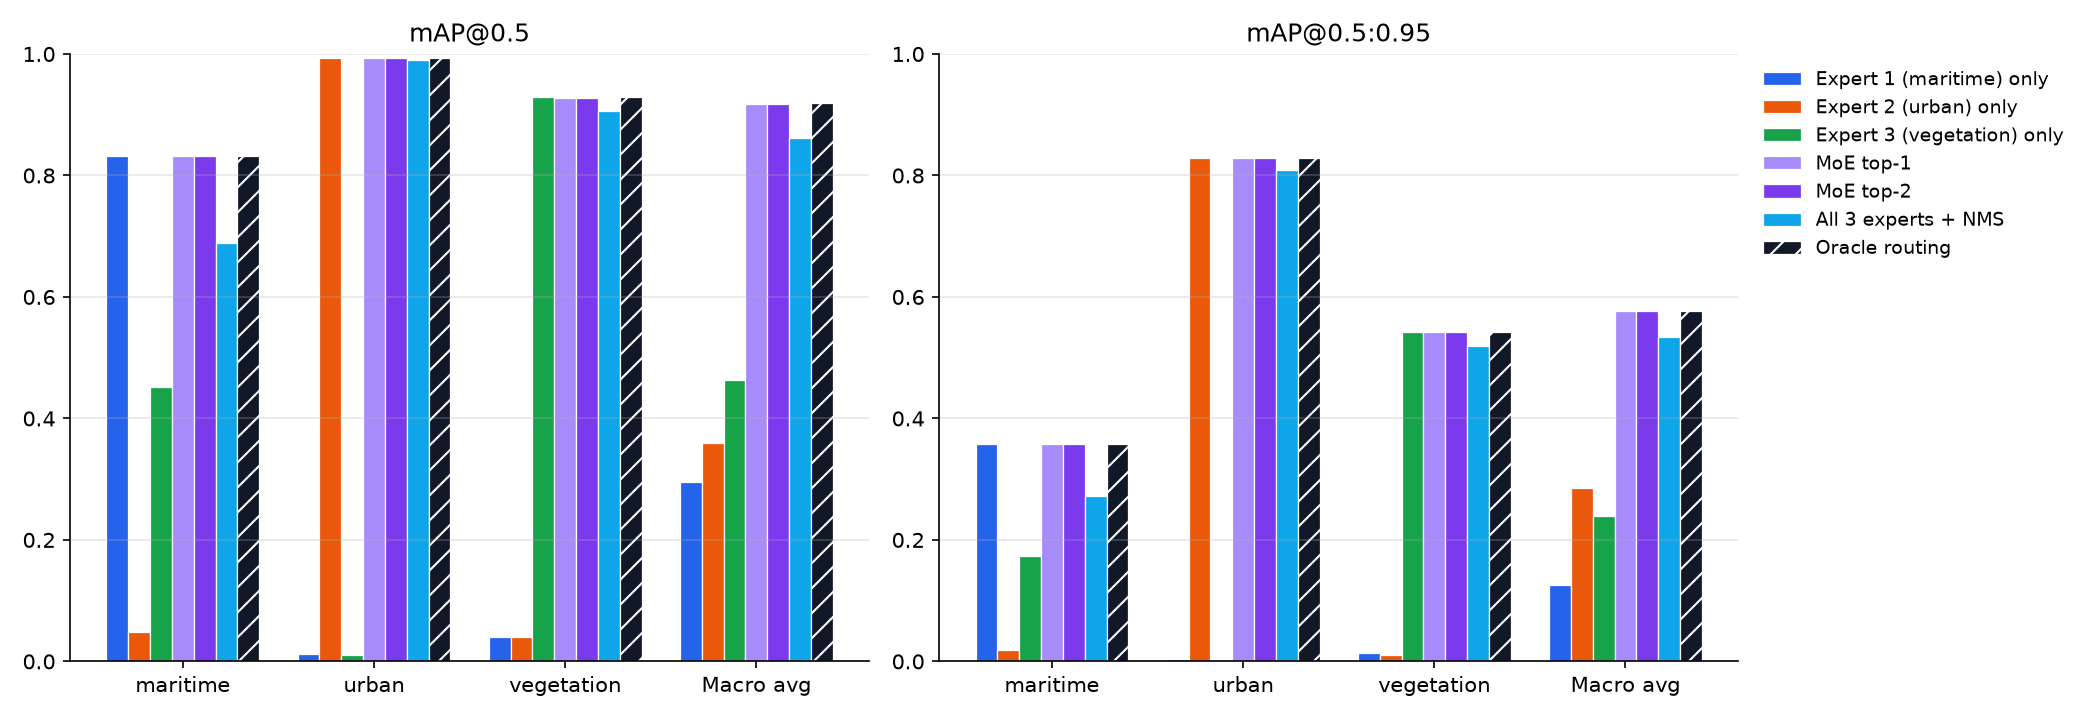
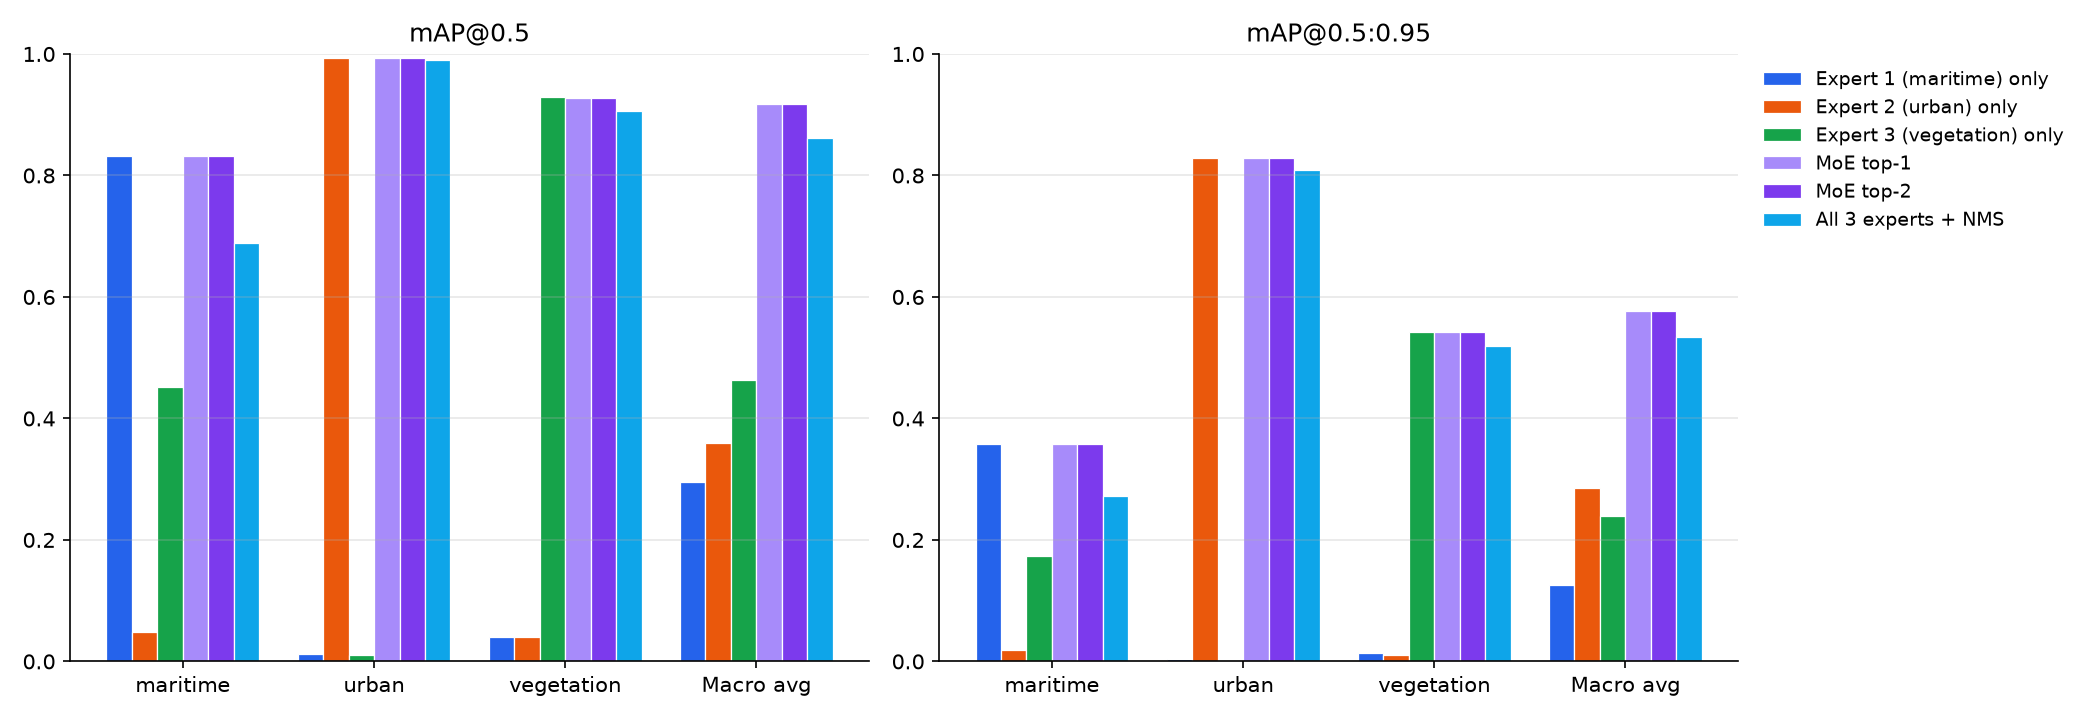
Remove oracle routing from results

diff --git a/runs/moe_eval/report.html b/runs/moe_eval/report.html
@@ -15,7 +15,7 @@ table{border-collapse:collapse;width:100%;font-size:13.5px}
 th,td{padding:7px 10px;border-bottom:1px solid var(--line);text-align:center;white-space:nowrap}
 th.m{text-align:left;font-weight:600} th.grp{background:var(--soft)}
 td.best{font-weight:700;color:var(--acc)} td.pr{color:var(--mut)}
-tr.moe{background:#faf5ff} tr.oracle{color:var(--mut);font-style:italic} tr.muted td,tr.muted th{color:var(--mut);font-size:12.5px}
+tr.moe{background:#faf5ff} table.paper th.m{vertical-align:top} table.paper td.m{text-align:left} .muted{color:var(--mut);font-weight:400;font-size:12.5px} tr.muted td,tr.muted th{color:var(--mut);font-size:12.5px}
 img.chart{max-width:100%;border:1px solid var(--line);border-radius:12px;margin-top:8px}
 .two{display:grid;grid-template-columns:minmax(0,1fr) minmax(0,1fr);gap:16px;align-items:start} .two>*{min-width:0}
 .tabs{display:flex;gap:8px;flex-wrap:wrap;margin:8px 0 14px}
@@ -32,11 +32,15 @@ ul.notes li{margin:4px 0} code{background:var(--soft);padding:1px 5px;border-rad
 </style></head><body><main>
 <h1>Terrain-gated MoE · evaluation report</h1>
 <p class="sub">2026-10-23 15:44 · test set: gate &#x27;test&#x27; split · expert input 640px · gate TTA off · top-2 threshold 0.75 · device mps</p>
-<div class="cards"><div class='card'><div class='k'>MoE top-2 · macro mAP@0.5</div><div class='v'>0.918</div><div class='s'>top-1: 0.918</div></div><div class='card'><div class='k'>Best single model</div><div class='v'>0.464</div><div class='s'>Expert 3 (vegetation) only</div></div><div class='card'><div class='k'>Oracle routing (upper bound)</div><div class='v'>0.919</div><div class='s'>gap to MoE: +0.001</div></div><div class='card'><div class='k'>Gate routing accuracy</div><div class='v'>99.8%</div><div class='s'>top-2 triggered on 0.0% of images</div></div></div>
+<div class="cards"><div class='card'><div class='k'>MoE top-2 · macro mAP@0.5</div><div class='v'>0.918</div><div class='s'>top-1: 0.918</div></div><div class='card'><div class='k'>Best single model</div><div class='v'>0.464</div><div class='s'>Expert 3 (vegetation) only</div></div><div class='card'><div class='k'>All 3 experts + NMS</div><div class='v'>0.862</div><div class='s'>3x the compute of MoE</div></div><div class='card'><div class='k'>Gate routing accuracy</div><div class='v'>99.8%</div><div class='s'>top-2 triggered on 0.0% of images</div></div></div>
 
-<h2>Detection metrics (person class)</h2>
-<p class="sub">Bold purple = best non-oracle value in that column. P / R are at the max-F1 confidence, as in YOLOv5 val.py. Macro avg = mean over the three terrains; All (pooled) = every image together (dominated by the largest test set).</p>
-<div class="scroll"><table class='metrics'><tr><th></th><th colspan='3' class='grp'>maritime</th><th colspan='3' class='grp'>urban</th><th colspan='3' class='grp'>vegetation</th><th colspan='3' class='grp'>Macro avg</th><th colspan='3' class='grp'>All (pooled)</th></tr><tr><th>method</th><th>mAP50</th><th>mAP50-95</th><th>P / R</th><th>mAP50</th><th>mAP50-95</th><th>P / R</th><th>mAP50</th><th>mAP50-95</th><th>P / R</th><th>mAP50</th><th>mAP50-95</th><th>P / R</th><th>mAP50</th><th>mAP50-95</th><th>P / R</th></tr><tr><th class='m'>Expert 1 (maritime) only</th><td>0.832</td><td>0.359</td><td class='pr'>0.869 / 0.827</td><td>0.013</td><td>0.004</td><td class='pr'>0.017 / 0.084</td><td>0.039</td><td>0.013</td><td class='pr'>0.136 / 0.097</td><td>0.295</td><td>0.125</td><td class='pr'>0.340 / 0.336</td><td>0.437</td><td>0.185</td><td class='pr'>0.846 / 0.404</td></tr><tr><th class='m'>Expert 2 (urban) only</th><td>0.048</td><td>0.019</td><td class='pr'>0.197 / 0.041</td><td>0.993</td><td>0.829</td><td class='pr'>0.986 / 0.988</td><td>0.039</td><td>0.011</td><td class='pr'>0.169 / 0.090</td><td>0.360</td><td>0.286</td><td class='pr'>0.451 / 0.373</td><td>0.471</td><td>0.368</td><td class='pr'>0.941 / 0.392</td></tr><tr><th class='m'>Expert 3 (vegetation) only</th><td>0.451</td><td>0.173</td><td class='pr'>0.589 / 0.465</td><td>0.010</td><td>0.002</td><td class='pr'>0.047 / 0.021</td><td class='best'>0.930</td><td class='best'>0.542</td><td class='pr'>0.873 / 0.898</td><td>0.464</td><td>0.239</td><td class='pr'>0.503 / 0.462</td><td>0.356</td><td>0.159</td><td class='pr'>0.611 / 0.350</td></tr><tr class='moe'><th class='m'>MoE top-1</th><td>0.832</td><td>0.359</td><td class='pr'>0.869 / 0.827</td><td>0.993</td><td>0.829</td><td class='pr'>0.986 / 0.988</td><td>0.927</td><td>0.542</td><td class='pr'>0.872 / 0.894</td><td>0.918</td><td>0.576</td><td class='pr'>0.909 / 0.903</td><td>0.922</td><td>0.595</td><td class='pr'>0.917 / 0.892</td></tr><tr class='moe'><th class='m'>MoE top-2</th><td class='best'>0.832</td><td class='best'>0.359</td><td class='pr'>0.869 / 0.827</td><td class='best'>0.993</td><td class='best'>0.829</td><td class='pr'>0.986 / 0.988</td><td>0.927</td><td>0.542</td><td class='pr'>0.872 / 0.894</td><td class='best'>0.918</td><td class='best'>0.576</td><td class='pr'>0.909 / 0.903</td><td class='best'>0.922</td><td class='best'>0.595</td><td class='pr'>0.917 / 0.892</td></tr><tr><th class='m'>All 3 experts + NMS</th><td>0.688</td><td>0.273</td><td class='pr'>0.702 / 0.816</td><td>0.990</td><td>0.809</td><td class='pr'>0.977 / 0.968</td><td>0.906</td><td>0.520</td><td class='pr'>0.874 / 0.858</td><td>0.862</td><td>0.534</td><td class='pr'>0.851 / 0.881</td><td>0.875</td><td>0.553</td><td class='pr'>0.808 / 0.876</td></tr><tr class='oracle'><th class='m'>Oracle routing</th><td>0.832</td><td>0.359</td><td class='pr'>0.869 / 0.827</td><td>0.993</td><td>0.829</td><td class='pr'>0.986 / 0.988</td><td>0.930</td><td>0.542</td><td class='pr'>0.873 / 0.898</td><td>0.919</td><td>0.577</td><td class='pr'>0.909 / 0.904</td><td>0.923</td><td>0.595</td><td class='pr'>0.917 / 0.893</td></tr><tr class='muted'><th class='m'>GT persons / images</th><td colspan='3'>3489 / 774</td><td colspan='3'>2755 / 365</td><td colspan='3'>970 / 157</td><td colspan='3'></td><td colspan='3'>7214</td></tr></table></div>
+<h2>Results table</h2>
+<p class="sub">Same layout as the team table. Bold = best per column within each test set. MoE (ours) = gate + top-1 routing. Copy-ready versions: <code>results_table.md</code>, <code>results_table.tex</code>.</p>
+<div class="scroll"><table class='paper'><tr><th class='m'>Test set</th><th class='m'>Model</th><th>Precision</th><th>Recall</th><th>mAP@50</th><th>mAP@50:95</th></tr><tr class=''><th class='m' rowspan='2'>Heridal (vegetation)<br><span class='muted'>157 img, 970 persons</span></th><td class='m'>All 3 experts + NMS</td><td class=best>0.874</td><td>0.858</td><td>0.906</td><td>0.520</td></tr><tr class='moe'><td class='m'>MoE (ours)</td><td>0.872</td><td class=best>0.894</td><td class=best>0.927</td><td class=best>0.542</td></tr><tr class=''><th class='m' rowspan='2'>SeaDronesSee (maritime)<br><span class='muted'>774 img, 3,489 persons</span></th><td class='m'>All 3 experts + NMS</td><td>0.702</td><td>0.816</td><td>0.688</td><td>0.273</td></tr><tr class='moe'><td class='m'>MoE (ours)</td><td class=best>0.869</td><td class=best>0.827</td><td class=best>0.832</td><td class=best>0.359</td></tr><tr class=''><th class='m' rowspan='2'>NTIC (urban)<br><span class='muted'>365 img, 2,755 persons</span></th><td class='m'>All 3 experts + NMS</td><td>0.977</td><td>0.968</td><td>0.990</td><td>0.809</td></tr><tr class='moe'><td class='m'>MoE (ours)</td><td class=best>0.986</td><td class=best>0.988</td><td class=best>0.993</td><td class=best>0.829</td></tr><tr class=''><th class='m' rowspan='2'>Mean over domains</th><td class='m'>All 3 experts + NMS</td><td></td><td></td><td>0.862</td><td>0.534</td></tr><tr class='moe'><td class='m'>MoE (ours)</td><td></td><td></td><td class=best>0.918</td><td class=best>0.576</td></tr></table></div>
+
+<h2>All methods (person class)</h2>
+<p class="sub">Bold purple = best value in that column. P / R are at the max-F1 confidence, as in YOLOv5 val.py. Macro avg = mean over the three terrains; All (pooled) = every image together (dominated by the largest test set).</p>
+<div class="scroll"><table class='metrics'><tr><th></th><th colspan='3' class='grp'>maritime</th><th colspan='3' class='grp'>urban</th><th colspan='3' class='grp'>vegetation</th><th colspan='3' class='grp'>Macro avg</th><th colspan='3' class='grp'>All (pooled)</th></tr><tr><th>method</th><th>mAP50</th><th>mAP50-95</th><th>P / R</th><th>mAP50</th><th>mAP50-95</th><th>P / R</th><th>mAP50</th><th>mAP50-95</th><th>P / R</th><th>mAP50</th><th>mAP50-95</th><th>P / R</th><th>mAP50</th><th>mAP50-95</th><th>P / R</th></tr><tr><th class='m'>Expert 1 (maritime) only</th><td>0.832</td><td>0.359</td><td class='pr'>0.869 / 0.827</td><td>0.013</td><td>0.004</td><td class='pr'>0.017 / 0.084</td><td>0.039</td><td>0.013</td><td class='pr'>0.136 / 0.097</td><td>0.295</td><td>0.125</td><td class='pr'>0.340 / 0.336</td><td>0.437</td><td>0.185</td><td class='pr'>0.846 / 0.404</td></tr><tr><th class='m'>Expert 2 (urban) only</th><td>0.048</td><td>0.019</td><td class='pr'>0.197 / 0.041</td><td>0.993</td><td>0.829</td><td class='pr'>0.986 / 0.988</td><td>0.039</td><td>0.011</td><td class='pr'>0.169 / 0.090</td><td>0.360</td><td>0.286</td><td class='pr'>0.451 / 0.373</td><td>0.471</td><td>0.368</td><td class='pr'>0.941 / 0.392</td></tr><tr><th class='m'>Expert 3 (vegetation) only</th><td>0.451</td><td>0.173</td><td class='pr'>0.589 / 0.465</td><td>0.010</td><td>0.002</td><td class='pr'>0.047 / 0.021</td><td class='best'>0.930</td><td class='best'>0.542</td><td class='pr'>0.873 / 0.898</td><td>0.464</td><td>0.239</td><td class='pr'>0.503 / 0.462</td><td>0.356</td><td>0.159</td><td class='pr'>0.611 / 0.350</td></tr><tr class='moe'><th class='m'>MoE top-1</th><td>0.832</td><td>0.359</td><td class='pr'>0.869 / 0.827</td><td>0.993</td><td>0.829</td><td class='pr'>0.986 / 0.988</td><td>0.927</td><td>0.542</td><td class='pr'>0.872 / 0.894</td><td>0.918</td><td>0.576</td><td class='pr'>0.909 / 0.903</td><td>0.922</td><td>0.595</td><td class='pr'>0.917 / 0.892</td></tr><tr class='moe'><th class='m'>MoE top-2</th><td class='best'>0.832</td><td class='best'>0.359</td><td class='pr'>0.869 / 0.827</td><td class='best'>0.993</td><td class='best'>0.829</td><td class='pr'>0.986 / 0.988</td><td>0.927</td><td>0.542</td><td class='pr'>0.872 / 0.894</td><td class='best'>0.918</td><td class='best'>0.576</td><td class='pr'>0.909 / 0.903</td><td class='best'>0.922</td><td class='best'>0.595</td><td class='pr'>0.917 / 0.892</td></tr><tr><th class='m'>All 3 experts + NMS</th><td>0.688</td><td>0.273</td><td class='pr'>0.702 / 0.816</td><td>0.990</td><td>0.809</td><td class='pr'>0.977 / 0.968</td><td>0.906</td><td>0.520</td><td class='pr'>0.874 / 0.858</td><td>0.862</td><td>0.534</td><td class='pr'>0.851 / 0.881</td><td>0.875</td><td>0.553</td><td class='pr'>0.808 / 0.876</td></tr><tr class='muted'><th class='m'>GT persons / images</th><td colspan='3'>3489 / 774</td><td colspan='3'>2755 / 365</td><td colspan='3'>970 / 157</td><td colspan='3'></td><td colspan='3'>7214</td></tr></table></div>
 <img class="chart" src="charts/map_by_terrain.png" alt="mAP by terrain">
 
 <h2>Gate routing</h2>
@@ -58,7 +62,6 @@ ul.notes li{margin:4px 0} code{background:var(--soft);padding:1px 5px;border-rad
 <li>Test images per terrain: maritime 774, urban 365, vegetation 157.</li>
 <li>Every expert sees the original full-resolution image, resized to 640px by YOLOv5. The gate sees a 224px crop.</li>
 <li>If a test image was in an expert's training split, that expert's numbers are optimistic. Check that the test folders match each expert's held-out split.</li>
-<li>Oracle routing is the best any gate could do with these experts. The gap between MoE and oracle is the cost of routing mistakes.</li>
 <li>All 3 experts + NMS runs every expert on every image (3× the compute). If MoE matches or beats it, routing is worth it.</li>
 </ul>
 </main>

diff --git a/eval_moe.py b/eval_moe.py
@@ -10,8 +10,6 @@ once. Raw predictions are cached, then these methods are scored from the cache
   MoE top-1           the gate picks one expert
   MoE top-2           the gate picks one, plus the runner-up when max p < threshold
   All 3 + NMS         every expert on every image, boxes merged (brute-force ensemble)
-  Oracle routing      the expert that matches the image's true terrain
-                      (upper bound for any gate)
 
 Metrics follow YOLOv5 val.py: mAP@0.5, mAP@0.5:0.95 (101-point interpolation),
 and precision/recall at the max-F1 confidence. Only the person class is scored
@@ -60,7 +58,6 @@ METHOD_COLORS = {
     "MoE top-1": "#a78bfa",
     "MoE top-2": "#7c3aed",
     "All 3 experts + NMS": "#0ea5e9",
-    "Oracle routing": "#111827",
 }
 TP_COLOR, FP_COLOR, FN_COLOR = (34, 197, 94), (239, 68, 68), (250, 204, 21)
 
@@ -272,10 +269,6 @@ def build_methods(names: list[str], model_keys: list[str], threshold: float, mer
         "All 3 experts + NMS",
         lambda rec: (combine([rec["preds"][n] for n in names], merge_iou, max_det), list(range(len(names)))),
     )
-    methods["Oracle routing"] = (
-        "Oracle routing",
-        lambda rec: (rec["preds"][rec["terrain"]], [names.index(rec["terrain"])]),
-    )
     return methods
 
 
@@ -485,7 +478,7 @@ def save_charts(metrics: dict, routing: dict, names: list[str], out: Path) -> li
             values = [metrics[label].get(g, {}).get(key, 0.0) for g in groups]
             color = next((c for k, c in METHOD_COLORS.items() if f"({k})" in label or label.startswith(k)), "#9ca3af")
             ax.bar(np.arange(len(groups)) + (i - (len(labels) - 1) / 2) * width, values, width, label=label, color=color,
-                   edgecolor="white", linewidth=0.6, hatch="//" if label == "Oracle routing" else None)
+                   edgecolor="white", linewidth=0.6)
         ax.set_xticks(np.arange(len(groups)), groups)
         ax.set_ylim(0, 1)
         ax.set_title(title)
@@ -582,7 +575,7 @@ def write_report(out: Path, cache: dict, metrics: dict, routing: dict, speed: di
     best = {}
     for col in cols:
         for key in ("map50", "map"):
-            vals = [(metrics[m].get(col, {}).get(key, -1), m) for m in metrics if m != "Oracle routing"]
+            vals = [(metrics[m].get(col, {}).get(key, -1), m) for m in metrics]
             best[(col, key)] = max(vals)[1] if vals else None
 
     def row(label):
@@ -596,7 +589,7 @@ def write_report(out: Path, cache: dict, metrics: dict, routing: dict, speed: di
                 cells.append(f"<td class='pr'>{fmt(m.get('p', 0))} / {fmt(m.get('r', 0))}</td>")
             else:
                 cells.append(f"<td class='pr'>{fmt(m.get('p', 0))} / {fmt(m.get('r', 0))}</td>")
-        tr = " class='oracle'" if label == "Oracle routing" else (" class='moe'" if label.startswith("MoE") else "")
+        tr = " class='moe'" if label.startswith("MoE") else ""
         return f"<tr{tr}>" + "".join(cells) + "</tr>"
 
     head1 = "<tr><th></th>" + "".join(f"<th colspan='3' class='grp'>{html.escape(c)}</th>" for c in cols) + "</tr>"
@@ -608,13 +601,12 @@ def write_report(out: Path, cache: dict, metrics: dict, routing: dict, speed: di
 
     moe = metrics["MoE top-2"]["Macro avg"]["map50"]
     moe1 = metrics["MoE top-1"]["Macro avg"]["map50"]
-    oracle = metrics["Oracle routing"]["Macro avg"]["map50"]
-    singles = {m: v["Macro avg"]["map50"] for m, v in metrics.items() if not m.startswith(("MoE", "All 3", "Oracle"))}
+    singles = {m: v["Macro avg"]["map50"] for m, v in metrics.items() if not m.startswith(("MoE", "All 3"))}
     best_single = max(singles, key=singles.get)
     cards = [
         ("MoE top-2 · macro mAP@0.5", fmt(moe), f"top-1: {fmt(moe1)}"),
         ("Best single model", fmt(singles[best_single]), html.escape(best_single)),
-        ("Oracle routing (upper bound)", fmt(oracle), f"gap to MoE: {oracle - moe:+.3f}"),
+        ("All 3 experts + NMS", fmt(metrics["All 3 experts + NMS"]["Macro avg"]["map50"]), "3x the compute of MoE"),
         ("Gate routing accuracy", f"{routing['accuracy']:.1%}", f"top-2 triggered on {routing['top2_rate_all']:.1%} of images"),
     ]
     cards_html = "".join(
@@ -659,7 +651,7 @@ table{{border-collapse:collapse;width:100%;font-size:13.5px}}
 th,td{{padding:7px 10px;border-bottom:1px solid var(--line);text-align:center;white-space:nowrap}}
 th.m{{text-align:left;font-weight:600}} th.grp{{background:var(--soft)}}
 td.best{{font-weight:700;color:var(--acc)}} td.pr{{color:var(--mut)}}
-tr.moe{{background:#faf5ff}} table.paper th.m{{vertical-align:top}} table.paper td.m{{text-align:left}} .muted{{color:var(--mut);font-weight:400;font-size:12.5px}} tr.oracle{{color:var(--mut);font-style:italic}} tr.muted td,tr.muted th{{color:var(--mut);font-size:12.5px}}
+tr.moe{{background:#faf5ff}} table.paper th.m{{vertical-align:top}} table.paper td.m{{text-align:left}} .muted{{color:var(--mut);font-weight:400;font-size:12.5px}} tr.muted td,tr.muted th{{color:var(--mut);font-size:12.5px}}
 img.chart{{max-width:100%;border:1px solid var(--line);border-radius:12px;margin-top:8px}}
 .two{{display:grid;grid-template-columns:minmax(0,1fr) minmax(0,1fr);gap:16px;align-items:start}} .two>*{{min-width:0}}
 .tabs{{display:flex;gap:8px;flex-wrap:wrap;margin:8px 0 14px}}
@@ -683,7 +675,7 @@ ul.notes li{{margin:4px 0}} code{{background:var(--soft);padding:1px 5px;border-
 <div class="scroll">{paper_table}</div>
 
 <h2>All methods (person class)</h2>
-<p class="sub">Bold purple = best non-oracle value in that column. P / R are at the max-F1 confidence, as in YOLOv5 val.py. Macro avg = mean over the three terrains; All (pooled) = every image together (dominated by the largest test set).</p>
+<p class="sub">Bold purple = best value in that column. P / R are at the max-F1 confidence, as in YOLOv5 val.py. Macro avg = mean over the three terrains; All (pooled) = every image together (dominated by the largest test set).</p>
 <div class="scroll">{table}</div>
 <img class="chart" src="charts/{charts[0]}" alt="mAP by terrain">
 
@@ -706,7 +698,6 @@ ul.notes li{{margin:4px 0}} code{{background:var(--soft);padding:1px 5px;border-
 <li>Test images per terrain: {', '.join(f'{k} {v}' for k, v in test_counts.items())}.</li>
 <li>Every expert sees the original full-resolution image, resized to {cache['imgsz']}px by YOLOv5. The gate sees a 224px crop.</li>
 <li>If a test image was in an expert's training split, that expert's numbers are optimistic. Check that the test folders match each expert's held-out split.</li>
-<li>Oracle routing is the best any gate could do with these experts. The gap between MoE and oracle is the cost of routing mistakes.</li>
 <li>All 3 experts + NMS runs every expert on every image (3× the compute). If MoE matches or beats it, routing is worth it.</li>
 </ul>
 </main>

diff --git a/runs/moe_eval/results_table.tex b/runs/moe_eval/results_table.tex
@@ -1,0 +1,17 @@
+\begin{tabular}{llcccc}
+\toprule
+Test set & Model & Precision & Recall & mAP@50 & mAP@50:95 \\
+\midrule
+Heridal (vegetation) & All 3 experts + NMS & \textbf{0.874} & 0.858 & 0.906 & 0.520 \\
+157 img, 970 persons & MoE (ours) & 0.872 & \textbf{0.894} & \textbf{0.927} & \textbf{0.542} \\
+\midrule
+SeaDronesSee (maritime) & All 3 experts + NMS & 0.702 & 0.816 & 0.688 & 0.273 \\
+774 img, 3,489 persons & MoE (ours) & \textbf{0.869} & \textbf{0.827} & \textbf{0.832} & \textbf{0.359} \\
+\midrule
+NTIC (urban) & All 3 experts + NMS & 0.977 & 0.968 & 0.990 & 0.809 \\
+365 img, 2,755 persons & MoE (ours) & \textbf{0.986} & \textbf{0.988} & \textbf{0.993} & \textbf{0.829} \\
+\midrule
+Mean over domains & All 3 experts + NMS & & & 0.862 & 0.534 \\
+ & MoE (ours) & & & \textbf{0.918} & \textbf{0.576} \\
+\bottomrule
+\end{tabular}

diff --git a/runs/moe_eval/results_table.md b/runs/moe_eval/results_table.md
@@ -1,0 +1,10 @@
+| Test set | Model | Precision | Recall | mAP@50 | mAP@50:95 |
+|---|---|---|---|---|---|
+| Heridal (vegetation)<br>157 img, 970 persons | All 3 experts + NMS | **0.874** | 0.858 | 0.906 | 0.520 |
+|  | MoE (ours) | 0.872 | **0.894** | **0.927** | **0.542** |
+| SeaDronesSee (maritime)<br>774 img, 3,489 persons | All 3 experts + NMS | 0.702 | 0.816 | 0.688 | 0.273 |
+|  | MoE (ours) | **0.869** | **0.827** | **0.832** | **0.359** |
+| NTIC (urban)<br>365 img, 2,755 persons | All 3 experts + NMS | 0.977 | 0.968 | 0.990 | 0.809 |
+|  | MoE (ours) | **0.986** | **0.988** | **0.993** | **0.829** |
+| Mean over domains | All 3 experts + NMS | | | 0.862 | 0.534 |
+|  | MoE (ours) | | | **0.918** | **0.576** |

diff --git a/README.md b/README.md
@@ -18,7 +18,6 @@ A small CNN gate looks at each drone image, decides its terrain (maritime, urban
 | Best single expert | 0.451 | 0.010 | 0.930 | 0.464 |
 | All 3 experts + NMS | 0.688 | 0.990 | 0.906 | 0.862 |
 | **MoE (gate + router)** | **0.832** | **0.993** | **0.927** | **0.918** |
-| Oracle routing | 0.832 | 0.993 | 0.930 | 0.919 |
 
 Gate routing accuracy: 99.8%. Full report with charts and annotated examples: [`runs/moe_eval/report.html`](runs/moe_eval/report.html) (download or clone, then open it in a browser).
 
